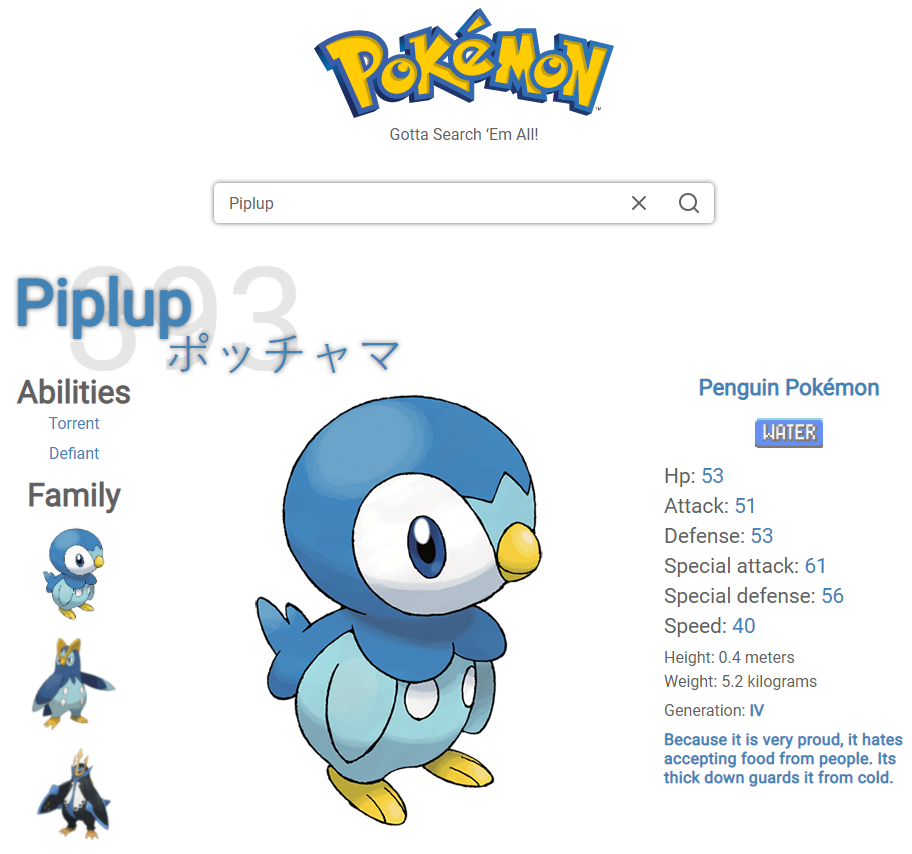
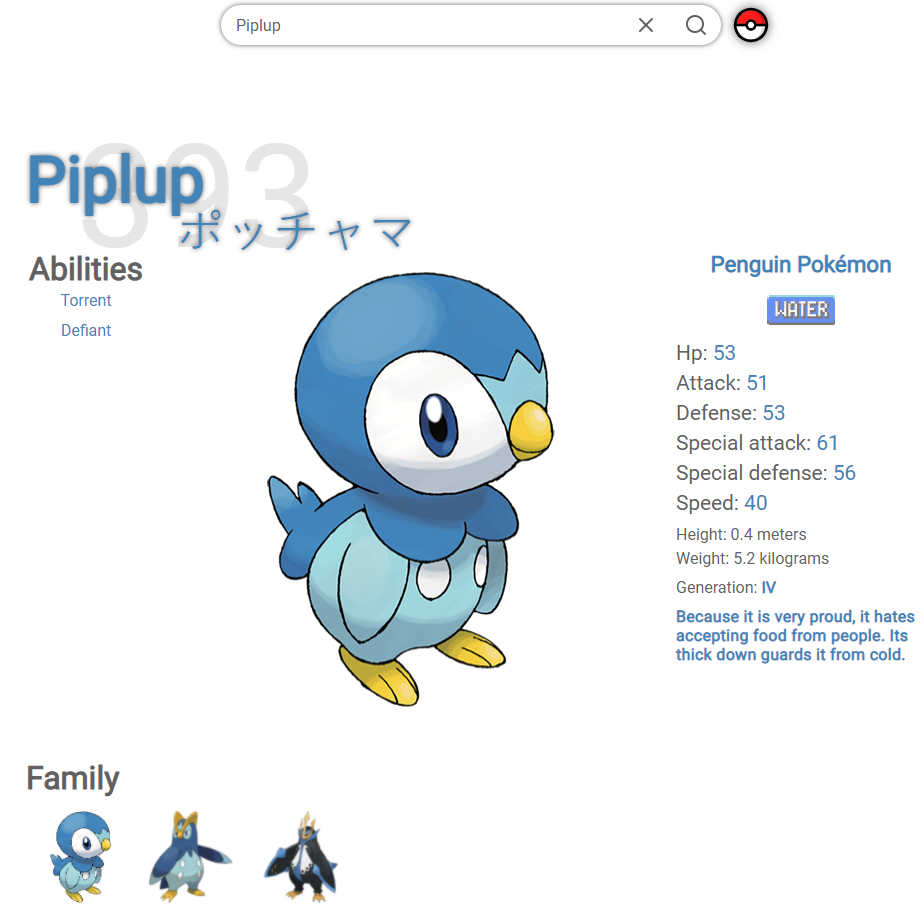
Update: mobile responsiveness

diff --git a/src/style/App.css b/src/style/App.css
@@ -137,6 +137,9 @@ Menu
   color: rgba(255, 255, 255, .5);
   font-size: 2rem;
 }
+.mobile_menu > ul {
+  padding-left: unset;
+}
 
 .menu_model {
   display: block;
@@ -144,7 +147,7 @@ Menu
   top: 0;
   width: 100%;
   height: 100%;
-  background-color: rgba(26, 26, 26, .7);
+  background-color: rgba(26, 26, 26, .9);
   z-index: 998;
 }
 .menu_model .menu_model_container {
@@ -162,7 +165,6 @@ Panels
   height: 100vh;
   position: relative;
 }
-
 .panel {
   top: 0;
   width: 100%;
@@ -172,7 +174,6 @@ Panels
   background-color: var(--gray);
 }
 .container {
-  width: 100%;
   height: 100%;
 }
 .hide_panel {
@@ -184,12 +185,16 @@ Panels
 }
 .home_card {
   display: grid;
+  grid-template-areas: 'col1 col2';
   grid-template-columns: repeat(2, 500px);
-  grid-column-gap: 50px;
+  grid-gap: 50px;
   height: 500px;
 }
 .home_card > div {
   padding: 15px;
+}
+.home_card .developer {
+  grid-area: col1;
 }
 .home_header {
   text-align: center;
@@ -203,7 +208,10 @@ Panels
   border-radius: 100%;
   overflow: hidden;
 }
-.portfolio >div:not(:last-child) {
+.portfolio {
+  grid-area: col2;
+}
+.portfolio > div:not(:last-child) {
   margin-bottom: 20px;
 }
 .portfolio_content {
@@ -214,6 +222,7 @@ Panels
 }
 .card_tech {
   justify-content: space-between;
+  text-align: center;
 }
 .show_projects {
   width: 100%;
@@ -236,14 +245,20 @@ Panels
 }
 
 .about_panel {
-  width: 900px;
-  height: 500px;
+  height: 100%;
 }
 .about_content {
   display: grid;
   justify-content: center;
+  grid-template-areas: 'col1 col2';
   grid-template-columns: repeat(2, 200px);
   grid-gap: 50px;
+}
+.about_content .abt_col1 {
+  grid-area: col1;
+}
+.about_content .abt_col2 {
+  grid-area: col2;
 }
 .about_content a {
   color: var(--white);
@@ -263,7 +278,7 @@ Card
 .card {
   display: grid;
   grid-template-columns: repeat(2, 500px);
-  grid-column-gap: 50px;
+  grid-gap: 50px;
   width: 1050px;
   height: 500px;
 }
@@ -352,6 +367,12 @@ Common classes
   justify-content: center;
 }
 
+.flex_column {
+  display: flex;
+  flex-direction: column;
+  justify-content: space-between;
+}
+
 .tech_icon {
   color: var(--white);
   font-size: 3rem;
@@ -359,6 +380,7 @@ Common classes
   height: 50px;
   padding: 5px;
   box-sizing: border-box;
+  display: inline-flex;
 }
 
 .text_ui {
@@ -379,12 +401,6 @@ Common classes
   color: #0a0a0a; 
 }
 
-.flex-column {
-  display: flex;
-  flex-direction: column;
-  justify-content: space-between;
-}
-
 /*
 ===============
 Responsiveness
@@ -392,46 +408,71 @@ Responsiveness
 */
 
 /* Smaller than */
-@media only screen and (max-width: 1050px) {
+@media only screen and (max-width: 1550px) {
   .menu {
     display: none;
   }
+}
 
-  .container {
-    overflow-y: scroll;
+@media only screen and (max-width: 1050px) {
+  .panel {
     padding-top: 90px;
     box-sizing: border-box;
   }
 
-  .home_card_container {
-    flex-direction: column;
-  }
   .home_card {
-    height: unset;
     width: 500px;
-    grid-template-rows: repeat(2, auto);
+    height: 1050px;
+    grid-template-areas: 'col1' 'col2';
     grid-template-columns: unset;
+    grid-template-rows: .5fr 1fr;
   }
   .show_projects {
-    position: unset;
+    display: none;
+  }
+
+  .container {
+    align-items: unset;
+    width: 90%;
+    margin: 0 auto;
+    overflow-y: scroll;
+  }
+
+  .card {
+    width: 500px;
+    height: 1050px;
+    grid-template-columns: unset;
+    grid-template-rows: 1fr 2fr;
+    margin-bottom: 50px;
+  }
+
+  .grid_normal {
+    grid-template-areas: 'col1' 'col2'
+  }
+  .grid_reverse {
+    grid-template-areas: 'col2' 'col1'
   }
 }
 
 @media only screen and (max-width: 600px) {
-  .about_content {
-    grid-template-columns: unset;
-    grid-template-rows: repeat(2, auto);
+  .logo h1 {
+    font-size: 1.3rem;
+  }
+  .header .icons_container .icon {
+    width: 50px;
+    font-size: 1.5rem;
   }
 }
 
-@media only screen and (max-width: 400px) {
-  .home_card {
-    width: 100%;
+@media only screen and (max-width: 450px) {
+  .about_content {
+    grid-template-columns: unset;
+    grid-template-areas: 'col1' 'col2';
   }
 }
 
 /* Larger than */
-@media only screen and (min-width: 1050px) {
+@media only screen and (min-width: 1550px) { 
   .hamburger_menu {
     display: none;
   }

diff --git a/src/components/Panels/index.tsx b/src/components/Panels/index.tsx
@@ -9,7 +9,7 @@ import { Props } from './types'
 
 export function Panels({ location: { pathname } }: Props) {
 
-  const { panels, projects, currentPanel, modelOpen, orderPanels } = useGlobalContext()
+  const { panels, projects, currentPanel, modelOpen, orderPanels, openMenu } = useGlobalContext()
 
   useEffect(() => {
     orderPanels()
@@ -32,7 +32,10 @@ export function Panels({ location: { pathname } }: Props) {
         </Pane>
       </div>
       {modelOpen &&
-        <div className="menu_model">
+        <div
+          className="menu_model"
+          onClick={openMenu}
+        >
           <div className="menu_model_container flex_ui">
             <Menu isMobileMenu={true} />
           </div>

diff --git a/src/components/Panes/About/index.tsx b/src/components/Panes/About/index.tsx
@@ -12,6 +12,7 @@ export const About = () =>
           href="https://www.linkedin.com/in/travis-hackney-8b7805207/"
           target="_blank"
           rel="noopener noreferrer"
+          className="abt_col1"
         >
           <FaLinkedin />
           <p>LinkedIn</p>
@@ -20,6 +21,7 @@ export const About = () =>
           href="https://www.linkedin.com/in/travis-hackney-8b7805207/"
           target="_blank"
           rel="noopener noreferrer"
+          className="abt_col2"
         >
           <ImFileText2 />
           <p>Resume</p>

diff --git a/src/components/Panes/Home/index.tsx b/src/components/Panes/Home/index.tsx
@@ -10,7 +10,7 @@ export const Home = () =>
 
     <div className="home_card">
 
-      <div>
+      <div className="developer">
         <div className="home_header">
           <h1>Travis Hackney</h1>
           <p>Web Developer</p>
@@ -42,7 +42,7 @@ export const Home = () =>
             I love how programming enables me to solve problems.
           </p>
         </div>
-        <div className="card_tech flex_ui">
+        <div className="card_tech">
           <BuiltWith builtWith={skills} />
         </div>
       </div>

diff --git a/src/components/Panes/Project/index.tsx b/src/components/Panes/Project/index.tsx
@@ -19,7 +19,7 @@ export const Project = ({
 
     <div className={`card ${reversed ? 'grid_reverse' : 'grid_normal'}`}>
 
-      <div className="grid_one card_ui flex-column">
+      <div className="grid_one card_ui flex_column">
         <div className="content_header">
           <h1>{title}</h1>
           <p>{subTitle}</p>
